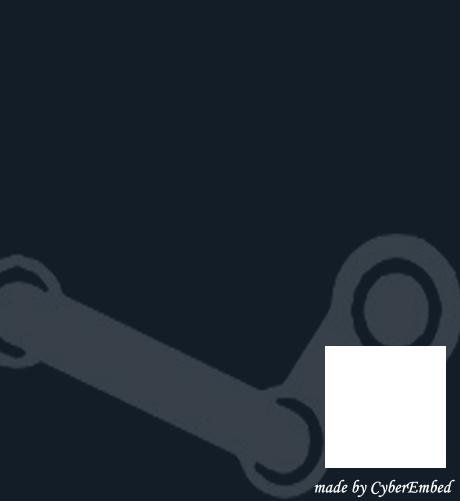
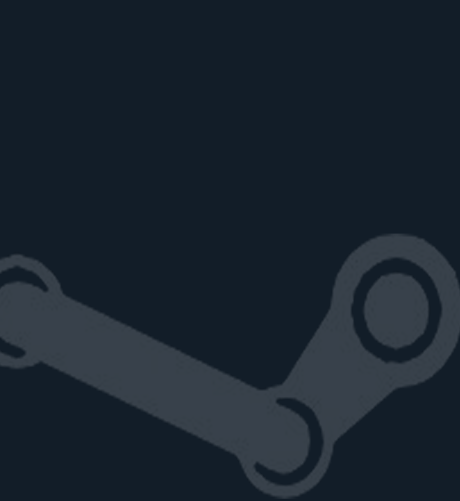
Refactor: change style of steam

Changed region(s): [[0.6696, 0.6886, 1.0, 1.0]]

diff --git a/src/service/PosterService.java b/src/service/PosterService.java
@@ -209,11 +209,14 @@ public class PosterService {
         g.drawString("最近评论："+recentComment,24,330);
         g.drawString("全部评论："+allComment,24,360);
         g.drawString("热门标签：",24,390);
+        g.setColor(new Color(35,60,78));
+        g.fillRect(35, 410, fontMetrics.stringWidth(firstTag)+22, 50);
         g.setColor(new Color(101, 192, 241));
         g.drawString(firstTag,46,440);
+
         //326 348
         BufferedImage qrCode = createQrCode(url, 400, 400, "./public/img/resources/steam_logo.png");
-        g.drawImage(qrCode.getScaledInstance(qrCode.getWidth(), qrCode.getHeight(), Image.SCALE_SMOOTH), 326, 348, 120, 120, null);
+        g.drawImage(qrCode.getScaledInstance(qrCode.getWidth(), qrCode.getHeight(), Image.SCALE_SMOOTH), 326, 380, 80, 80, null);
         g.dispose();
         return embed;
     }
@@ -285,5 +288,18 @@ public class PosterService {
      * an easy poster demo
      */
     public static void main(String[] args) {
+        String path = "./public/embed.jpg";
+        try{
+            BufferedImage b = generateSteamPoster("https://store.steampowered.com/app/1145360/Hades/",
+                    "https://media.st.dl.pinyuncloud.com/steam/apps/1145360/header.jpg?t=1606329416",
+                    "Defy the god of the dead as you hack and slash out of the Underworld in this rogue-like dungeon crawler from the creators of Bastion, Transistor, and Pyre.",
+                    "壓倒性好評 (29,615)" ,"壓倒性好評 (75,035)",
+                    "roguelike探险游戏"
+                    )
+                    ;
+            ImageIO.write(b,"jpg", new File(path));
+        }catch (IOException e){
+
+        }
     }
 }
